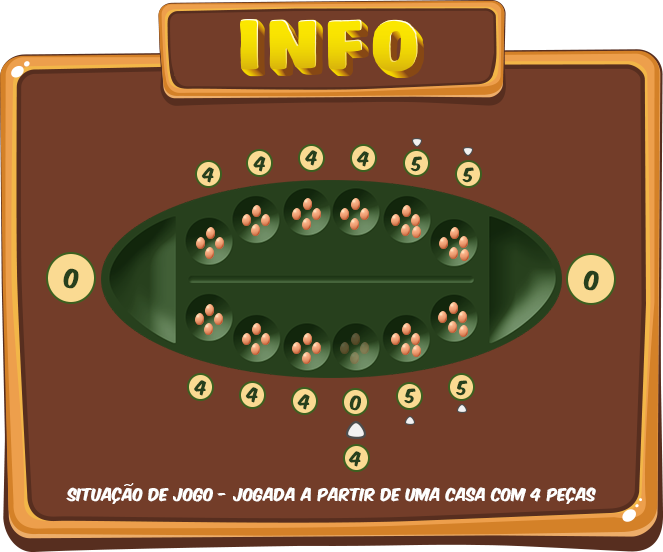
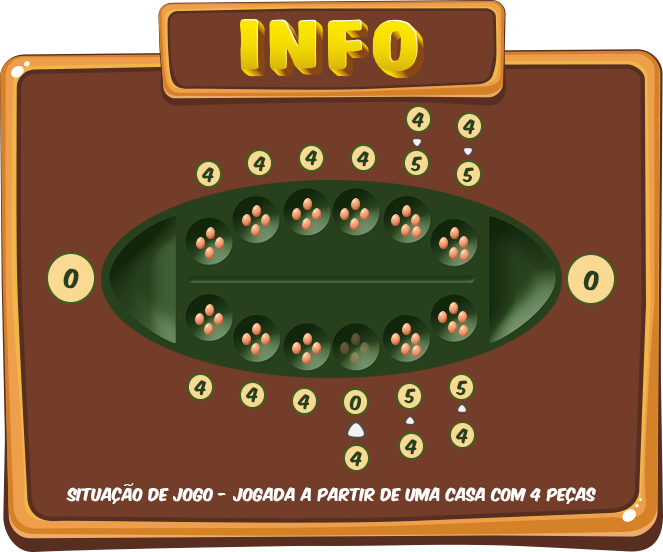
Setas + info ate 16

Changed region(s): [[0.6033, 0.1848, 0.7541, 0.2772], [0.6033, 0.7391, 0.724, 0.8315]]

diff --git a/Pvp.js b/Pvp.js
@@ -54,6 +54,7 @@ class Pvp extends Phaser.Scene{
         dep2 = 0;
         check = 0;       
 		state = [4, 4, 4, 4, 4, 4, 4, 4, 4, 4, 4, 4];
+		this.atualizaSetas();
 	    this.atualizaTabuleiro(w,h);
 	
 
@@ -84,10 +85,32 @@ class Pvp extends Phaser.Scene{
 		this.atualizaTabuleiro(config.width,config.height);
 
 		this.nextPlayer();
+		this.atualizaSetas();
 
 		this.afterplay();
 	}
 	
+	atualizaSetas(){
+
+		this.setaP1 = this.add.sprite(1024,936,'setaP1').setScale(0.7).visible = false
+		this.setaP2 = this.add.sprite(1024,100,'setaP2').setScale(0.7).visible = false
+        this.setaCounterP1 = this.add.sprite(810*2,72*2,'setaCounter').setScale(0.7).visible = false
+		this.setaCounterP2 = this.add.sprite(810*2,160*2,'setaCounter').setScale(0.7).visible = false
+		if(player == 1){
+			this.setaP2.visible = false;
+			this.setaCounterP2.visible = false;
+			this.setaP1.visible = true;
+			this.setaCounterP1.visible = true;
+		}
+		else if(player == 2){
+			this.setaP1.visible = false;
+			this.setaCounterP1.visible = false;
+			this.setaP2.visible = true;
+			this.setaCounterP2.visible = true;
+			
+		}
+	}
+
 	afterplay(){
 		if (dep1 > 24) { check = 1 }
 		if (dep2 > 24) { check = 1 }
@@ -334,33 +357,6 @@ class Pvp extends Phaser.Scene{
             //Adiciona os ovos aos depositos
             this.numeroDep1 = this.add.sprite(240*2,300*2,'i'+dep1).setScale(0.6)
             this.numeroDep2 = this.add.sprite(790*2,300*2,'i'+dep2).setScale(0.6)
-
-		// Adiciona setas correspondentes a quem irá jogar
-
-		this.setaP1 = this.add.sprite(1024,936,'setaP1')
-		this.setaP1.visible = false
-                this.setaP1.setScale(0.7)
-		this.setaP2 = this.add.sprite(1024,100,'setaP2')
-		this.setaP2.visible = false
-                this.setaP2.setScale(0.7)
-                this.setaCounterP1 = this.add.sprite(810*2,72*2,'setaCounter')
-                this.setaCounterP1.visible = false
-                this.setaCounterP1.setScale(0.7)
-		this.setaCounterP2 = this.add.sprite(810*2,160*2,'setaCounter')
-		this.setaCounterP2.visible = false
-                this.setaCounterP2.setScale(0.7)
-		if(player == 1){
-			this.setaP1.visible = true;
-			this.setaCounterP1.visible = true;
-		}
-		else if(player == 2){
-			this.setaP2.visible = true;
-			this.setaCounterP2.visible = true;
-		}
-
-
-
-
 
 }	
 

diff --git a/Pvc.js b/Pvc.js
@@ -85,7 +85,7 @@ class Pvc extends Phaser.Scene {
                 }
 
                 
-
+                this.atualizaSetas();
                 this.atualizaTabuleiro(w, h);
 
 
@@ -93,6 +93,26 @@ class Pvc extends Phaser.Scene {
 
         }
 
+        atualizaSetas(){
+
+		this.setaP1 = this.add.sprite(1024,936,'setaP1').setScale(0.7).visible = false
+		this.setaP2 = this.add.sprite(1024,100,'setaP2').setScale(0.7).visible = false
+        this.setaCounterP1 = this.add.sprite(810*2,72*2,'setaCounter').setScale(0.7).visible = false
+		this.setaCounterP2 = this.add.sprite(810*2,160*2,'setaCounter').setScale(0.7).visible = false
+		if(player == 1){
+			this.setaP2.visible = false;
+			this.setaCounterP2.visible = false;
+			this.setaP1.visible = true;
+			this.setaCounterP1.visible = true;
+		}
+		else if(player == 2){
+			this.setaP1.visible = false;
+			this.setaCounterP1.visible = false;
+			this.setaP2.visible = true;
+			this.setaCounterP2.visible = true;
+			
+		}
+	}
 
         jogada(pointer, gameObject) {
                 // Impedir jogada quando se clica no home
@@ -119,6 +139,7 @@ class Pvc extends Phaser.Scene {
 
                 //Ve qual o proximo player a jogar
                 this.nextPlayer();
+                this.atualizaSetas();
 
                 //verifica se o jogo terminou
                 this.afterplay();
@@ -131,6 +152,7 @@ class Pvc extends Phaser.Scene {
                                 this.atualizarState(pos);
                                 this.atualizaTabuleiro(config.width, config.height);
                                 this.nextPlayer();
+                                this.atualizaSetas();
                                 this.afterplay();
                         }
                 }, 1000)

diff --git a/Menu.js b/Menu.js
@@ -136,7 +136,7 @@ class Menu extends Phaser.Scene{
         console.log('Stats');
     }
     counterInfo(contador){
-        if((contador > 0) &&( contador < 11)){
+        if((contador > 0) &&( contador < 17)){
         
         
         this.informacoes=this.add.sprite((config.width/2)*2,(config.height/2+config.height/12)*2,"info"+contador);

diff --git a/Load.js b/Load.js
@@ -21,7 +21,7 @@ class Load extends Phaser.Scene{
 
         //Infos
 
-        for(var j = 1; j <= 10; j++){
+        for(var j = 1; j <= 16; j++){
             this.load.image('info'+j, 'img_menu/info'+j+'.png')
         }
 
